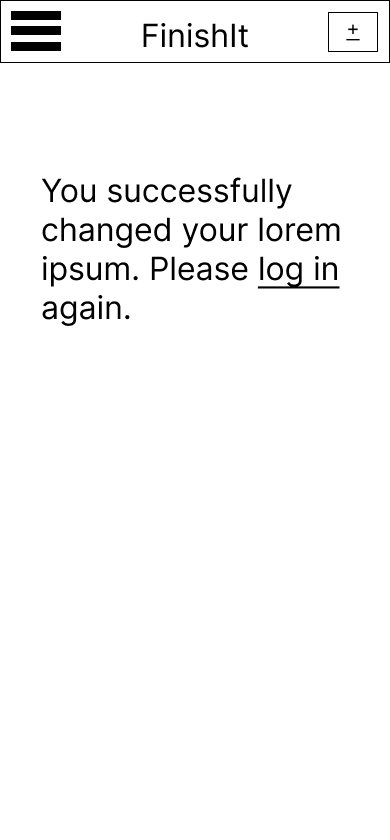
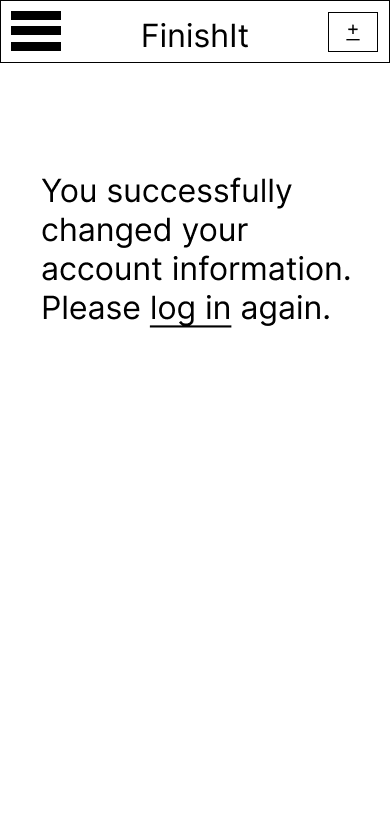
Update app map

Changed region(s): [[0.0923, 0.2476, 0.8923, 0.4024]]

diff --git a/UX-DESIGN.md b/UX-DESIGN.md
@@ -27,7 +27,7 @@ This page provides the user with options to modify their username or password, o
 ## Confirmation page
 <img alt="Confirmation page" width="200px" src="https://github.com/agiledev-students-spring-2023/final-project-finishit/blob/master/ux-design/wireframes/Confirmation-page.png">
 
-This page appears when the user has successfully changed or deleted their account, and redirects them to log in.
+This page appears when the user has successfully changed their username or password, and redirects them to log in.
 
 ## Sign Up page
 <img alt="Sign Up page" width="200px" src="https://github.com/agiledev-students-spring-2023/final-project-finishit/blob/master/ux-design/wireframes/Sign Up Page.png">
